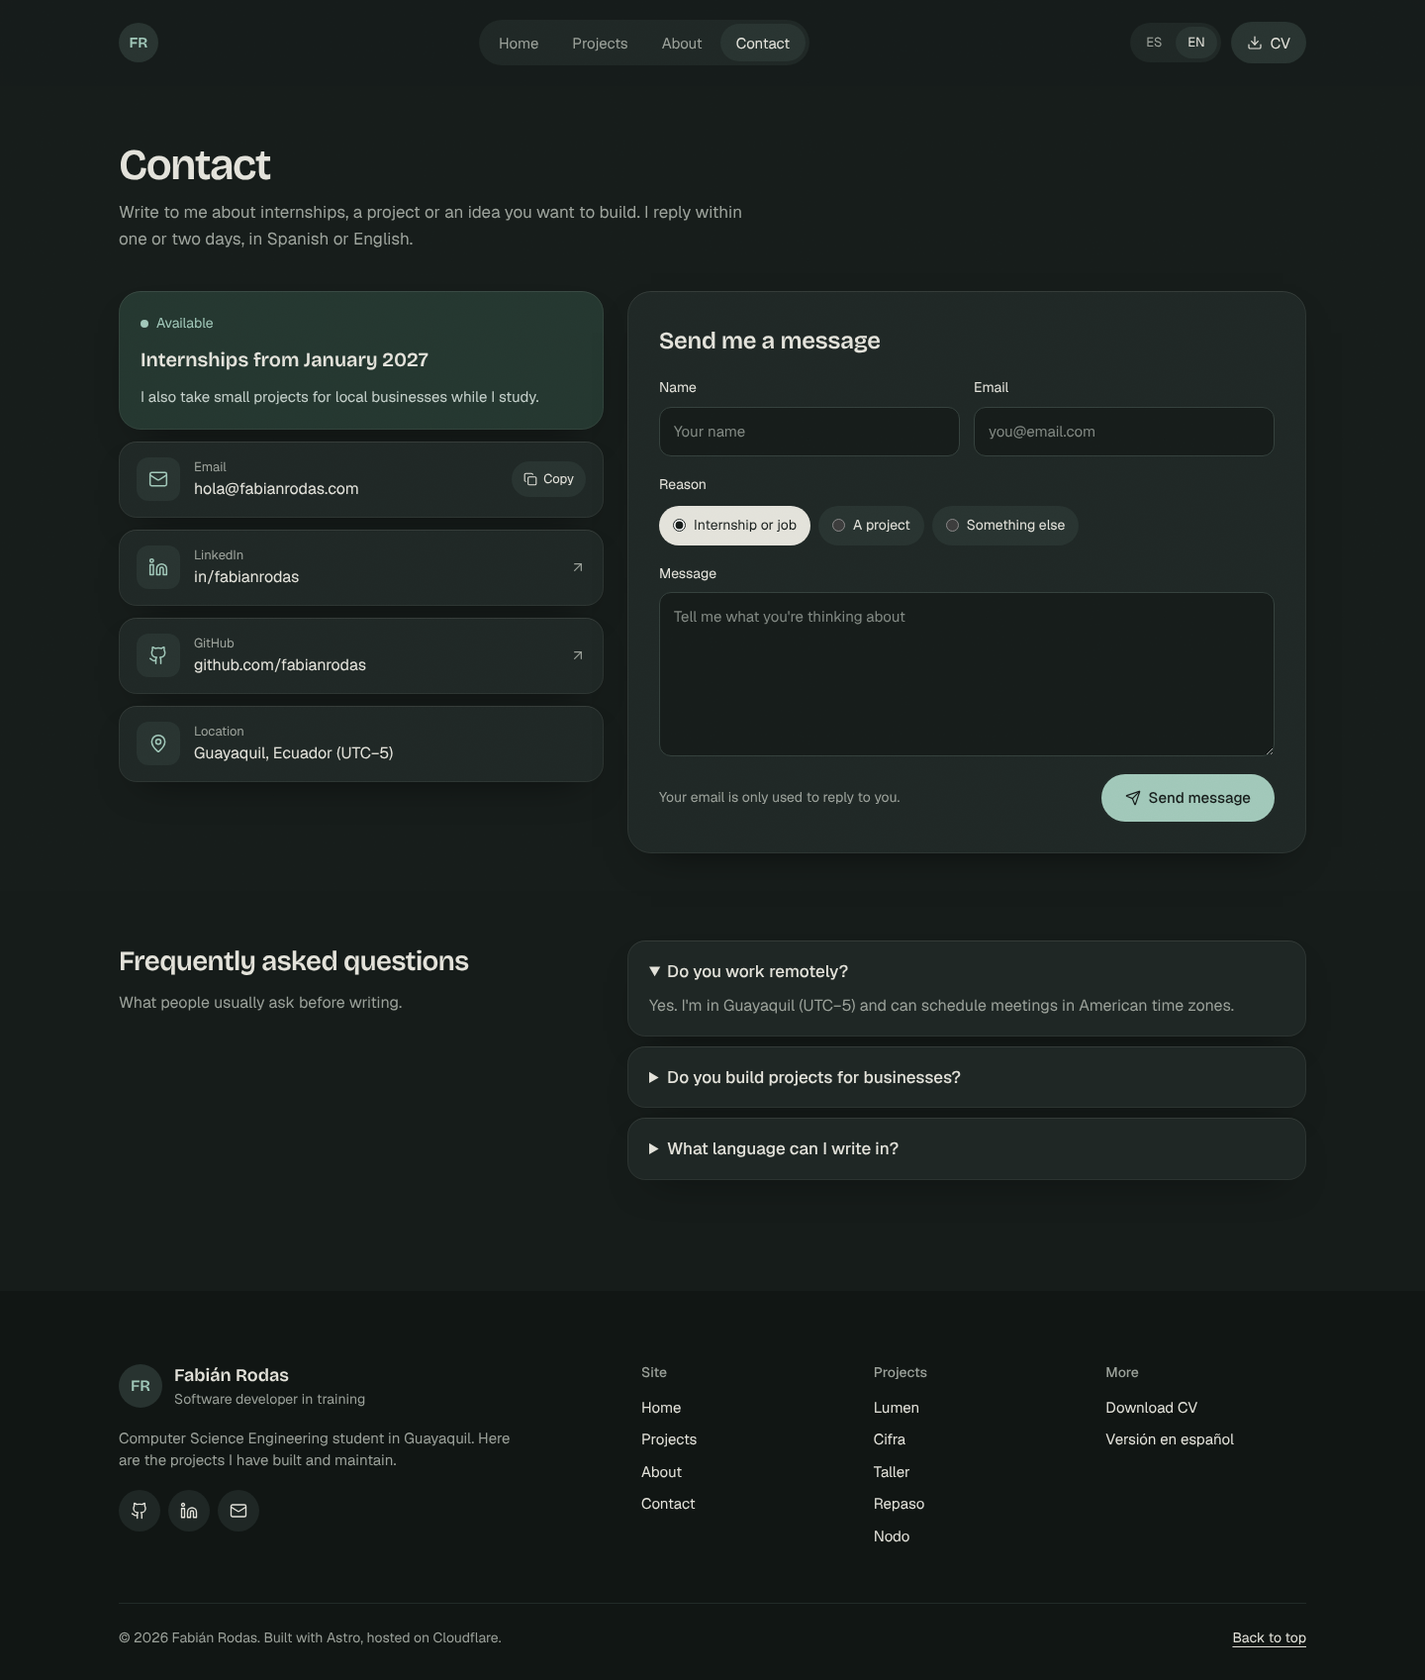
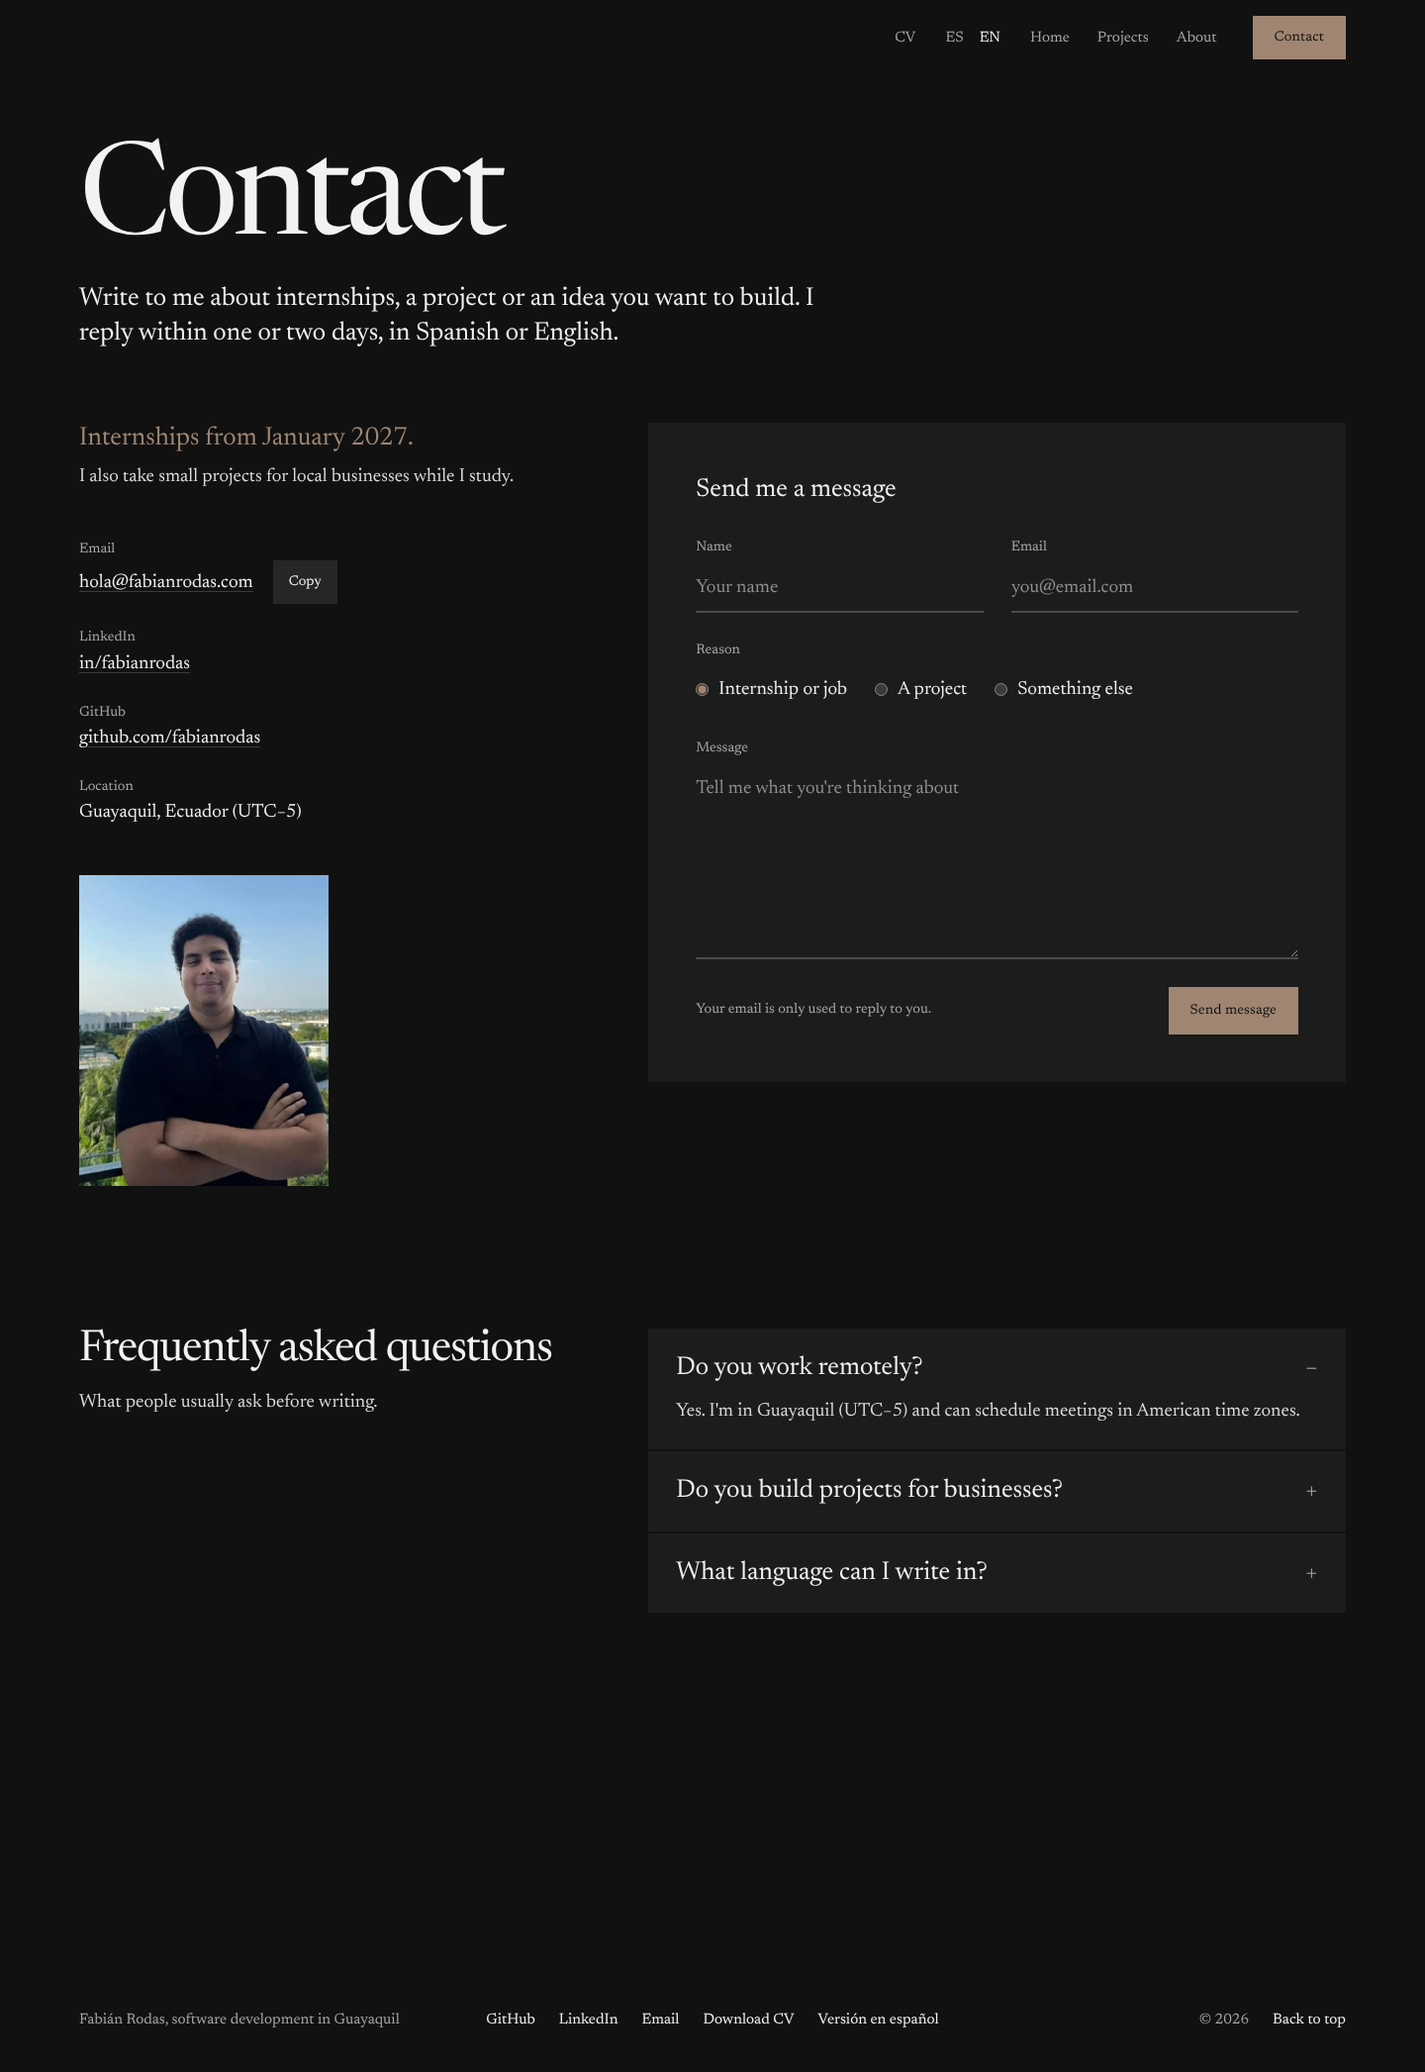
docs: Sala oscura en README, decisiones 40 a 49, reporte con la crítica de taste-skill, imagen para redes y capturas
Claude-Session: https://claude.ai/code/session_01P25f2q1FU6c4eH67GAYuLX

diff --git a/docs/REPORTE-FINAL.md b/docs/REPORTE-FINAL.md
@@ -1,6 +1,6 @@
 # Reporte final
 
-> **Actualizaciones (después del PR #1):** se quitó la sección de Notas del alcance; el inicio tiene un hero animado con foto sin fondo; la cabecera ya no muestra el nombre, y todo el sitio ganó profundidad (grano, spotlight en tarjetas, bandas de contraste, títulos revelados). Detalle en `docs/DECISIONES-IMPLEMENTACION.md` (decisiones 33 a 39). Pon tu foto siguiendo la sección "Poner tu foto en el hero" del README.
+> **Rediseño "Sala oscura" (octubre de 2026):** todo el sitio pasó a una dirección oscura con Newsreader, sin píldoras, cristal, iconos ni franjas; el inicio tiene la foto con el nombre cruzándola, proyectos como nombres grandes y la hora de Guayaquil en el contacto. La foto es de ejemplo (avatar de GitHub). Detalle en `docs/DECISIONES-IMPLEMENTACION.md` (decisiones 40 a 49) y abajo, en "Sala oscura".
 
 ## Resultado
 
@@ -8,32 +8,23 @@ El portafolio está implementado de punta a punta según `docs/diseno/PLAN.md` y
 
 | Criterio | Estado |
 |---|---|
-| Todas las rutas de §1 existen en ES y EN y coinciden con los artboards a 1440 px; el inicio coincide con `HomeMobile` a 390 px | ✅ (tabla abajo) |
-| Funcionalidades de §4 con prueba Playwright | ✅ 36 pruebas pasan |
+| Todas las rutas de §1 existen en ES y EN, sin scroll horizontal de 390 a 1440 px | ✅ |
+| Funcionalidades de §4 con prueba Playwright | ✅ 34 pruebas pasan |
 | `npm run build`, `astro check` y pruebas sin errores; Lighthouse ≥ 95 | ✅ `astro check`: 0 errores, 0 avisos |
 | README, reportes, todo comiteado y pusheado | ✅ |
 
 ### Comparación con los artboards
 
-Medido en Chromium, renderizando cada artboard con `scripts/artboards/support.js` y la ruta del sitio en el mismo viewport.
-
-| Artboard | Ruta | Primera pantalla idéntica (1440 px) |
-|---|---|---|
-| Proyectos | `/proyectos/` | 97.8 % |
-| Proyecto | `/proyectos/lumen/` | 99.0 % |
-| SobreMi | `/sobre-mi/` | 99.1 % |
-| Contacto | `/contacto/` | 99.0 % |
-
-Las diferencias vienen de la cabecera (sin nombre, cuatro enlaces) y de los bordes de luz de las tarjetas. Capturas de referencia: `docs/capturas/referencia/`. Capturas del sitio (ES/EN, 1440 y 390 px): `docs/capturas/sitio/`.
+Ya no se mide: desde el rediseño Sala oscura el sitio deja de parecerse a los artboards a propósito. Siguen en `docs/diseno/artboards/` y `docs/capturas/referencia/` como historial. Capturas actuales del sitio (ES/EN, 1440 y 390 px): `docs/capturas/sitio/`.
 
 ### Lighthouse (sobre `npm run preview`)
 
 | Ruta | Modo | Performance | Accessibility | Best Practices | SEO |
 |---|---|---|---|---|---|
-| `/` | móvil | 99 | 96 | 100 | 100 |
-| `/` | escritorio | 98 | 96 | 100 | 100 |
-| `/proyectos/` | móvil | 99 | 100 | 100 | 100 |
-| `/proyectos/` | escritorio | 100 | 100 | 100 | 100 |
+| `/` | móvil | 99 | 100 | 100 | 100 |
+| `/` | escritorio | 100 | 96 | 100 | 100 |
+| `/proyectos/` | móvil | 100 | 96 | 100 | 100 |
+| `/proyectos/` | escritorio | 100 | 96 | 100 | 100 |
 | `/sobre-mi/` | móvil | 99 | 100 | 100 | 100 |
 | `/sobre-mi/` | escritorio | 100 | 100 | 100 | 100 |
 
@@ -41,16 +32,16 @@ Accessibility no llega a 100 solo por el texto diminuto dentro de los mockups di
 
 ## Qué se hizo
 
-- **Stack**: Astro 7.4 estático, TypeScript estricto, CSS propio con tokens, `@astrojs/sitemap` y fuentes locales con `@fontsource-variable` (Bricolage Grotesque, Geist, Geist Mono).
+- **Stack**: Astro 7.4 estático, TypeScript estricto, CSS propio con tokens, `@astrojs/sitemap` y Newsreader servida desde `src/styles/fuentes/`.
 - **Rutas** (ES sin prefijo, EN en `/en/`): inicio, proyectos, 5 casos de estudio, sobre mí, contacto, sitemap, `robots.txt` y un 404 con el estilo del sitio.
 - **Contenido** en colecciones (`src/content/`): 8 proyectos en español e inglés. El caso de Lumen está completo; el resto tiene textos cortos con la misma plantilla.
 - **Componente `Shot`**: los 8 mockups de `Shot.dc.html` con el mismo HTML y container queries. Acepta `src` para imágenes reales.
-- **JavaScript mínimo** (vanilla TS): filtros y buscador de Proyectos; menú móvil; botones de copiar; índice lateral activo; formulario de contacto.
+- **JavaScript mínimo** (vanilla TS): filtros y buscador de Proyectos; menú móvil; botones de copiar; índice lateral activo; formulario de contacto; vista fija de proyectos, hora de Guayaquil y entradas por sección en el inicio.
 - **Formulario**: envía a `PUBLIC_FORM_ENDPOINT` si existe; si no, abre un `mailto:`. Validación accesible y mensajes de éxito y error.
-- **Animaciones** solo CSS y respetando `prefers-reduced-motion`: entrada escalonada del hero, aparición al hacer scroll con `animation-timeline: view()`, zoom de imagen en hover y View Transitions entre páginas.
+- **Animaciones** respetando `prefers-reduced-motion`: el nombre crece con el scroll (`animation-timeline: scroll()`), zoom lento en la foto, entradas por partes de cada sección, zoom de capturas en hover y View Transitions entre páginas.
 - **SEO y metadatos**: título y descripción por página, Open Graph y Twitter con `og.png`, `hreflang` ES/EN y canónicas.
 - **Accesibilidad**: un `h1` por página, landmarks, `aria-current` en la navegación, enlace "Saltar al contenido", foco visible, objetivos táctiles de 44 px y sin scroll horizontal de 390 a 1440 px.
-- **Pruebas** (`tests/`): comparación visual contra los artboards, capturas de 10 rutas (ES/EN) a 1440 y 390 px, y pruebas funcionales de filtros, menú móvil, rutas eliminadas, ES/EN, formulario (mailto, endpoint correcto y endpoint con error), copiar y 404.
+- **Pruebas** (`tests/`): capturas de 10 rutas (ES/EN) a 1440 y 390 px, y pruebas funcionales de filtros, menú móvil, rutas eliminadas, ES/EN, formulario (mailto, endpoint correcto y endpoint con error), copiar, 404 y la hora de Guayaquil.
 
 Las decisiones que el plan no especificaba están en `docs/DECISIONES-IMPLEMENTACION.md`.
 
@@ -69,13 +60,34 @@ El despliegue en Cloudflare Pages y la conexión de fabianrodas.com están expli
 
 ## Qué falta que reemplaces
 
-0. **Tu foto sin fondo para el hero**: ver "Poner tu foto en el hero" en el README.
+0. **Tus fotos**: hoy se usa tu avatar de GitHub como ejemplo. Ver "Poner tus fotos" en el README.
 1. **Proyectos reales**: edita o borra los archivos de `src/content/proyectos/{es,en}/`.
 2. **Capturas reales**: cambia `cover: lumen` (y los de `case.gallery`) por `{ src, alt, width, height }` con imágenes en `public/img/`. Ver el README.
-3. **Fotos de Sobre mí**: el retrato y las tres fotos de "Fuera del código" en `src/views/SobreMi.astro`.
+3. **Fotos de Sobre mí**: las tres de "Fuera del código" (`public/img/fuera-*.webp`).
 4. **Datos de contacto**: `src/lib/sitio.ts` (email `hola@fabianrodas.com`, LinkedIn y GitHub de ejemplo).
 5. **CV**: reemplaza `public/cv/fabian-rodas-cv.pdf` (hoy es un PDF de una página que dice que es de ejemplo).
-6. **La ficha del hero** del inicio (Ahora, Estudio, Antes, Busco) y los textos de Sobre mí (experiencia, educación, certificados), que están en `src/views/Inicio.astro` y `src/views/SobreMi.astro`.
+6. **Los textos del inicio** (frase del hero, datos de Sobre mí, tarjeta de contacto) y los de la página Sobre mí (experiencia, educación, certificados), que están en `src/views/Inicio.astro` y `src/views/SobreMi.astro`.
 7. **Endpoint del formulario**: define `PUBLIC_FORM_ENDPOINT` en Cloudflare si no quieres depender del `mailto:`.
 8. **Enlaces de ejemplo** de los proyectos (`lumen.fabianrodas.com`, `taller.example.com`, `repaso.example.com` y los repos de GitHub).
-9. Opcional: regenerar `public/og.png` con `npm run og` si cambias el titular.
+9. Regenerar `public/og.png` con `npm run og` cuando cambies la foto o la frase.
+10. Opcional: Erode en lugar de Newsreader (ver "Tipografía" en el README).
+
+## Sala oscura: verificación con taste-skill
+
+- `lint.mjs src`: 0 FAIL, 0 WARN.
+- `inspect.mjs` a 1440, 768 y 390 px: 0 FAIL en inicio, proyectos, caso de Lumen y Sobre mí. Contacto mantiene `few-pictures` (una sola foto; decisión 49).
+- Avisos que se defienden: contraste bajo y texto diminuto dentro de los mockups de capturas (se van con capturas reales); "font-not-dealt" (Newsreader en lugar de Erode, decisión 41); sin video (no hay material); márgenes desiguales que vienen del borde irregular del texto, no del contenedor.
+
+```
+ROUND 1
+Seen in one second: la foto de Fabián y "fabián rodas" en grande cruzándola.
+Idea (one sentence): una sala oscura donde la persona y sus proyectos son las piezas iluminadas.
+Live thing: la hora actual de Guayaquil y si responde hoy o mañana.
+Layout words by section: hero=foto inset con nombre que cruza / proyectos=índice de nombres con vista fija / sobre mí=datos al lado y párrafo / contacto=reloj y tarjeta / pie=una línea
+Scores: design 7 · usability 8 · creativity 7 · content 7 → overall 7.3.
+Caps applied: menos de cuatro fotos reales en el inicio (design ≤ 6.5 hasta tener fotos reales; el retrato es el avatar de GitHub).
+Top three problems (most visible first), each with the screenshot it shows in and the fix:
+1. El retrato es un avatar de baja resolución (inicio-es-1440, sobre-mi-es-1440): reemplazar por una foto vertical de unos 1000 px.
+2. Las capturas de proyectos son mockups dibujados con colores planos (proyectos-es-1440): reemplazar por capturas reales.
+3. Fuera del código repite la misma foto en tres recortes (sobre-mi-es-1440): usar fotos distintas.
+```

diff --git a/docs/DECISIONES-IMPLEMENTACION.md b/docs/DECISIONES-IMPLEMENTACION.md
@@ -59,3 +59,18 @@ Decisiones tomadas donde `docs/diseno/PLAN.md` o los artboards no especificaban 
 37. **El nombre ya no está en la cabecera.** Solo queda el monograma "FR" como enlace al inicio (con `aria-label`). La cabecera ahora es fija (`position: sticky`) con fondo translúcido y `backdrop-filter`, y muestra un borde al hacer scroll.
 38. **Más profundidad en todo el sitio**: grano de película sutil (SVG `feTurbulence` en `body::after`); tarjetas con borde de luz, sombra y *spotlight* que sigue al cursor (patrón de Linear/Vercel; `src/scripts/spotlight.ts` y las clases `.tarjeta` / `.spot`); las tarjetas enlazadas suben 4 px al pasar el mouse; bandas de contraste a todo el ancho (`.banda`) en Proyectos destacados, Qué hago, Certificaciones, Otros proyectos y el final del caso; títulos que se revelan con máscara al entrar en pantalla (`animation-timeline: view()`, solo donde hay soporte), y una doble franja *marquee* de tecnologías bajo el hero. Se agregaron tokens nuevos (`--c-borde`, `--c-banda`, `--c-brillo`, sombras) sin cambiar los colores originales.
 39. **Pruebas visuales**: ahora solo comparan la primera pantalla con los artboards (≥ 90 %); el alto ya no, porque las bandas cambian el largo de las páginas a propósito.
+
+### Rediseño "Sala oscura" (octubre de 2026)
+
+Diseño completo en `docs/superpowers/specs/2026-10-22-sala-oscura-design.md` y plan en `docs/superpowers/plans/2026-10-22-sala-oscura.md`. Reemplaza las decisiones 34, 36, 37 y 38.
+
+40. **Dirección elegida con taste-skill.** De las tres direcciones que repartió (Sala oscura, Instrumento silencioso, El objeto impreso), Fabián eligió Sala oscura: fondo casi negro de arriba abajo, paleta "Lunar and bronze" (`#111`, `#1c1c1c`, tinta `#f2f2f2`, acento bronce `#a08672` solo en la acción principal), esquinas rectas y cinco tamaños de letra.
+41. **Newsreader en lugar de Erode.** La hoja dio Erode (Fontshare), que no se puede descargar desde este entorno. Newsreader (OFL) es la serif ligera que la biblioteca de taste-skill acepta para esta dirección. Se sirve desde `src/styles/fuentes/` con pesos 300 a 500. Bricolage Grotesque, Geist y Geist Mono ya no se usan en el sitio; los paquetes quedan solo para renderizar los artboards de `docs/` (`scripts/artboards/support.js`).
+42. **Fuera los adornos:** píldoras (de estado, filtros, buscador, "Ahora: Lumen v1.8", "Disponible"), cristal (`backdrop-filter`), grano, aurora, spotlight y bordes de luz, sombras, bandas de contraste, marquee, monograma "FR", iconos decorativos (se borró `Icono.astro`) y la fuente monoespaciada del 404. Estados, etiquetas y tecnologías pasan a texto separado por comas.
+43. **Barra lisa sin nombre:** enlaces de texto, "Contacto" como único botón bronce y fondo opaco al quedar fija. En el teléfono, "Menú" como palabra.
+44. **Inicio nuevo:** foto a la izquierda con el nombre en minúsculas cruzándola (es el `h1`); proyectos como nombres grandes con una vista fija de la captura; Sobre mí con datos al lado y un párrafo ancho; tarjeta de contacto con la hora actual de Guayaquil y una línea que cambia según sea de día (8 a 22 h) o de noche. Sin JavaScript se ve "Respondo en uno o dos días".
+45. **Movimiento:** el nombre crece al bajar y la foto se oscurece (`animation-timeline: scroll()`); zoom lento sobre la foto; entradas por partes de cada sección (`[data-entra]` + `src/scripts/entradas.ts`, que solo agrega la clase `.visible`). Sin JS o con "reducir movimiento" todo queda visible y quieto.
+46. **Fotos de ejemplo:** el retrato es el avatar de GitHub de Fabián recortado a 800 × 1000 (`public/img/retrato.webp`). "Fuera del código" usa tres recortes de esa misma foto. Se usa también en Contacto y en `public/og.png`. Se cambian siguiendo "Poner tus fotos" en el README.
+47. **Páginas internas:** conservan su estructura y su funcionamiento (filtros con `aria-pressed`, buscador, formulario, índice lateral y copiar). Los títulos de página van al tamaño del nombre para que haya un elemento dominante; los campos del formulario usan una línea inferior de 2 px.
+48. **Pruebas:** se quitaron las comparaciones píxel a píxel con los artboards (el diseño ya no se parece a ellos a propósito), junto con `tests/servidor-artboards.mjs`, `pixelmatch` y `pngjs`. Se agregaron dos pruebas de la hora de Guayaquil con un reloj fijo.
+49. **Excepción defendida de taste-skill:** Contacto tiene una sola foto (`few-pictures` pide cuatro). No hay más fotos reales de Fabián ni de Guayaquil; se completa cuando lleguen. El campo trampa del formulario lleva `taste-skill-ignore` porque su `height: 1px` no es una línea.

diff --git a/README.md b/README.md
@@ -89,13 +89,17 @@ case:                             # opcional, solo para destacados
 
 Campos opcionales extra: `homeSummary`, `label`, `tags`, `homeTags`, `period`, `kind`, `platform`, `platformShort`, `links.privateRepo`, `case.gallery`. Todos están documentados en `src/content.config.ts`.
 
-## Poner tu foto en el hero
+## Poner tus fotos
 
-El hero del inicio muestra una silueta de ejemplo (`public/img/retrato.svg`). Para usar tu foto:
+Hoy el sitio usa como foto de ejemplo tu avatar de GitHub (`public/img/retrato.webp`, 800 × 1000) y tres recortes de esa misma foto en "Fuera del código" (`public/img/fuera-1.webp` a `fuera-3.webp`). Para cambiarlas:
 
-1. Recorta el fondo (por ejemplo con remove.bg, Photoshop o la herramienta de recorte de macOS/iOS) y expórtala como **PNG o WebP con transparencia**, vertical, de unos 1000 px de alto. Funciona mejor un plano de medio cuerpo con los hombros cortados abajo: la imagen se desvanece en el borde inferior.
-2. Guárdala en `public/img/`, por ejemplo `public/img/retrato.webp`.
-3. En `src/lib/sitio.ts` cambia `retrato` por `{ src: '/img/retrato.webp', width: <ancho>, height: <alto> }` con las medidas reales.
+1. **Retrato** (hero del inicio, Sobre mí, Contacto y la imagen para redes): una foto vertical 4:5, de unos 1000 px de alto. Puede tener fondo; va sobre la superficie oscura. Guárdala como `public/img/retrato.webp` con las mismas medidas, o cambia `retrato` en `src/lib/sitio.ts` por `{ src, width, height }` con las medidas reales.
+2. **Fuera del código**: reemplaza `public/img/fuera-1.webp` (4:3), `fuera-2.webp` (4:5) y `fuera-3.webp` (1:1), y los textos `foto` y `pie` en `src/views/SobreMi.astro`.
+3. Vuelve a generar la imagen para redes con `npm run og`.
+
+## Tipografía
+
+El sitio usa **Newsreader** (OFL), servida desde `src/styles/fuentes/`. La dirección de diseño pedía Erode, que no se podía descargar desde el entorno de trabajo. Si quieres Erode, descárgala gratis de fontshare.com, copia los `.woff2` a `src/styles/fuentes/` y cambia los `@font-face` de `src/styles/global.css`.
 
 ## Cambiar las imágenes de ejemplo por capturas reales
 
@@ -113,11 +117,9 @@ Las capturas son mockups dibujados por `src/components/Shot.astro`. Para usar un
    ```
 
    Lo mismo sirve dentro de `case.gallery`.
-3. En `src/views/SobreMi.astro`, reemplaza los `<Shot kind="foto" …>` por `<Shot src="/img/retrato.webp" alt="…" width={800} height={1000} />`.
-
 El componente pone `width`, `height`, `loading="lazy"` y `alt` automáticamente.
 
-Otros datos a reemplazar: `src/lib/sitio.ts` (email, LinkedIn, GitHub), `public/cv/fabian-rodas-cv.pdf` (CV real) y los textos del hero de `src/views/Inicio.astro` (presentación y la ficha "Ahora / Estudio / Antes / Busco").
+Otros datos a reemplazar: `src/lib/sitio.ts` (email, LinkedIn, GitHub), `public/cv/fabian-rodas-cv.pdf` (CV real) y los textos de `src/views/Inicio.astro` (frase del hero, datos de Sobre mí y tarjeta de contacto).
 
 ## Formulario de contacto
 

diff --git a/docs/superpowers/specs/2026-10-22-sala-oscura-design.md b/docs/superpowers/specs/2026-10-22-sala-oscura-design.md
@@ -1,6 +1,6 @@
 # Diseño: rediseño "Sala oscura"
 
-Fecha: 2026-10-22 · Estado: **pendiente de aprobación**
+Fecha: 2026-10-22 · Estado: **aprobado (dirección elegida por Fabián)**
 
 ## Intención
 
@@ -16,7 +16,7 @@ El sitio se ve plano y "hecho por IA". Fabián quiere un portafolio con su foto 
 
 - Astro 7, CSS propio, JS mínimo en vanilla TS, `prefers-reduced-motion` respetado, Lighthouse ≥ 95.
 - En este entorno solo hay red hacia npm y GitHub. No se puede descargar Erode (Fontshare) ni fotos de archivos abiertos (Wikimedia, Openverse, Unsplash).
-- Todavía no hay fotos reales de Fabián; se usa la silueta de ejemplo hasta que las tenga.
+- Todavía no hay fotos reales de Fabián; se usa su avatar de GitHub como ejemplo hasta que las tenga.
 
 ## Enfoques considerados
 
